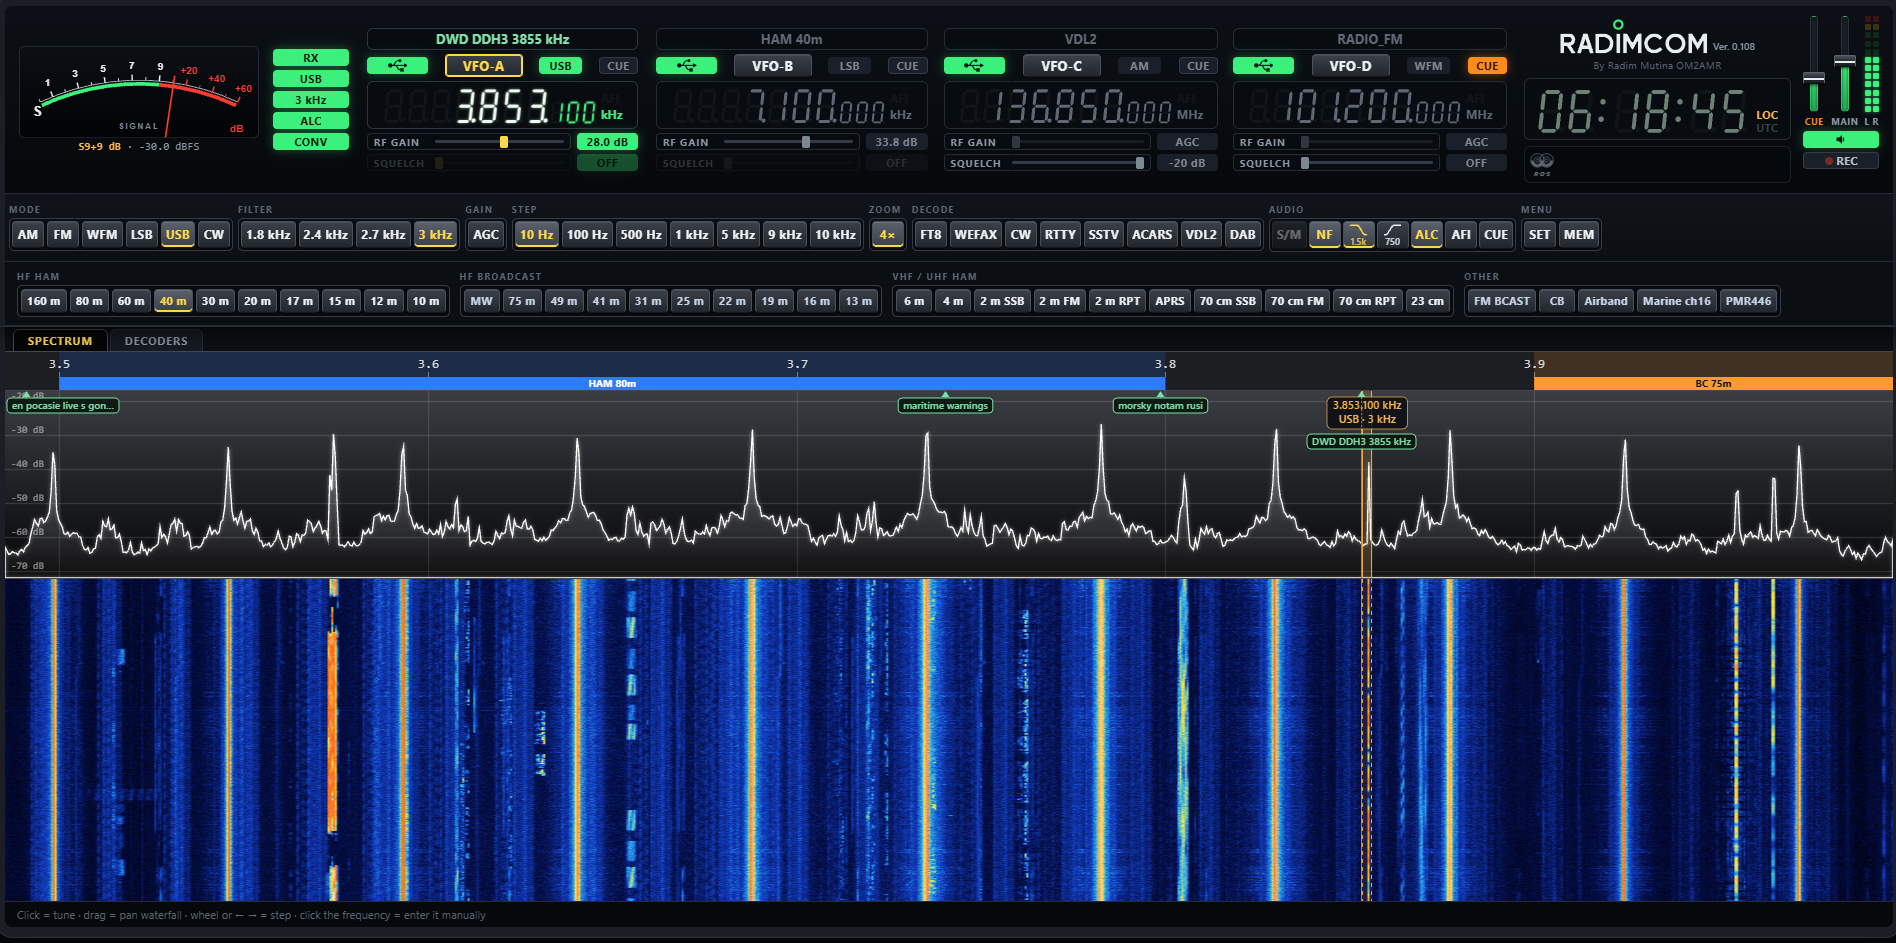
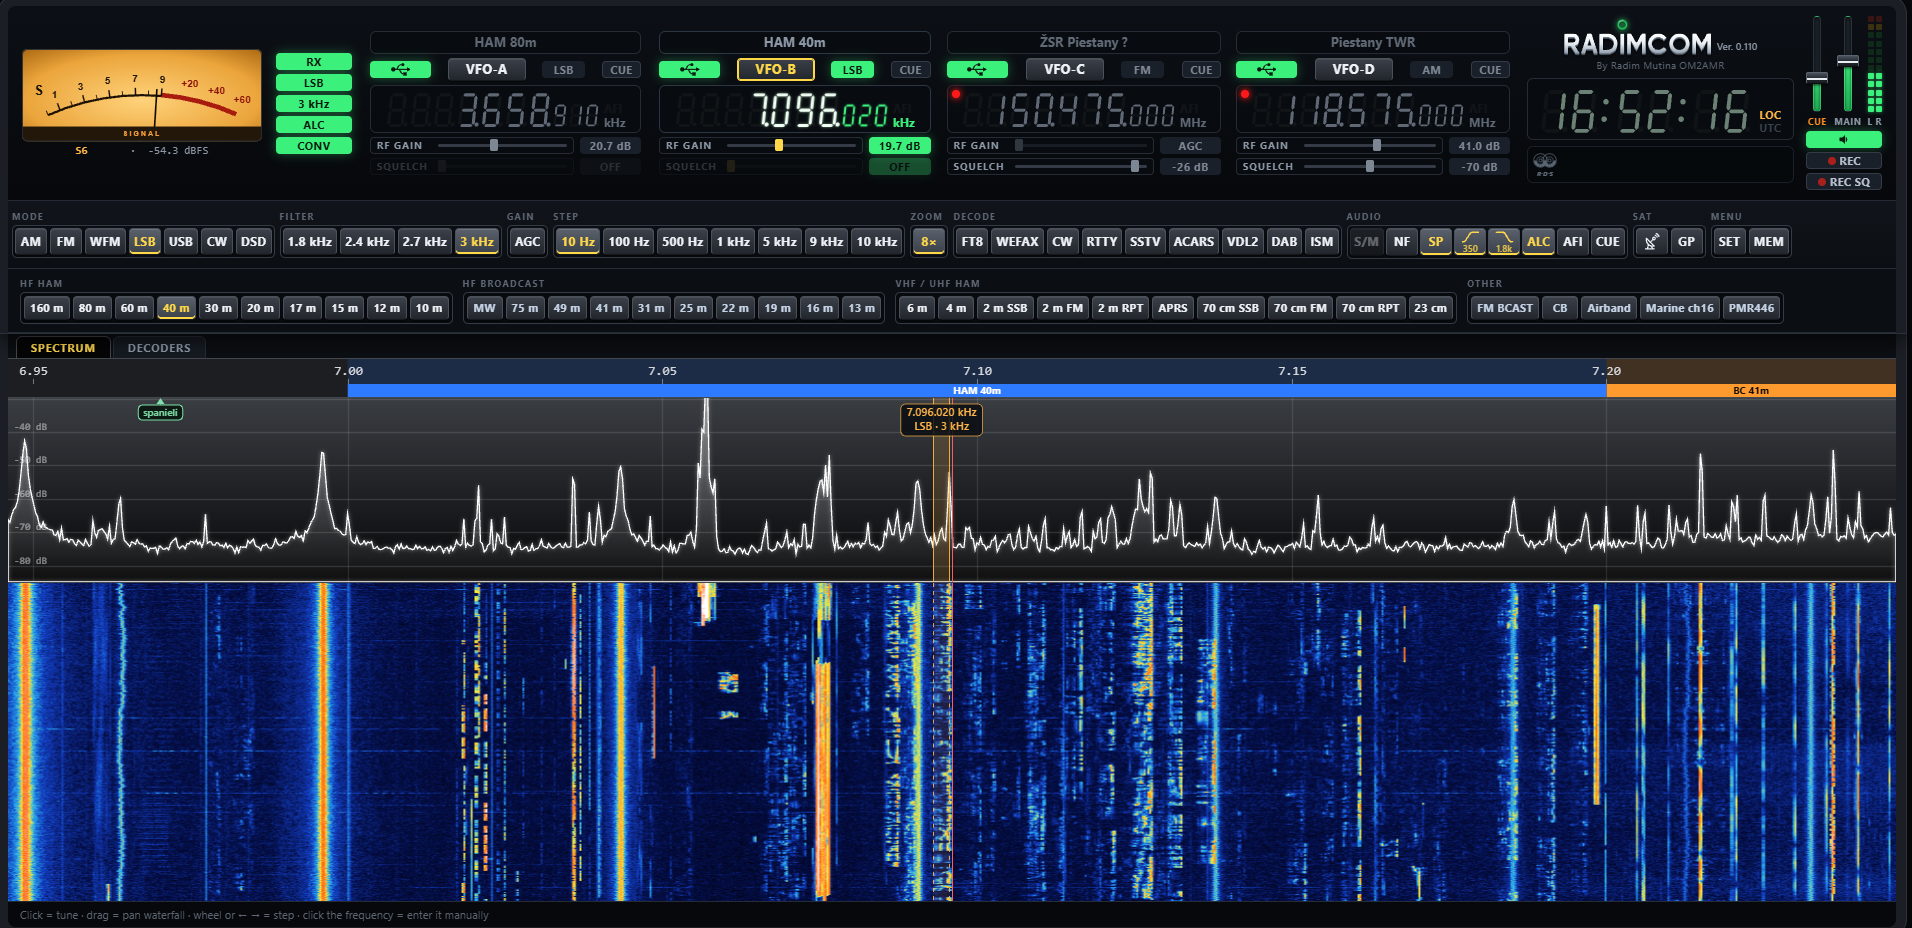
screenshots

diff --git a/README.md b/README.md
@@ -190,6 +190,8 @@ with MSYS2; licences, sources and build steps are in `installer\VDL2.txt` (`lib\
 DAB and DAB+ are broadcast in Band III (174–240 MHz). One channel (e.g. 12C = 227.360 MHz) carries an ensemble
 (multiplex) of many stations, 1.5 MHz wide.
 
+![DAB+ card on channel 6D: station list, Radio_FM playing with its slideshow picture and DLS text, SIGNAL, ENSEMBLE and MULTIPLEX CAPACITY panels](docs/images/dab_decoder.png)
+
 - Press **DAB** in the DECODE group. The VFO switches to 2.048 MS/s on the centre of the channel and the
   **DAB+** card opens on the DECODERS tab. Pick the channel of your region in CHANNEL (remembered per VFO,
   default 12C); after a few seconds the ensemble name with its country flag and the station list appear.
